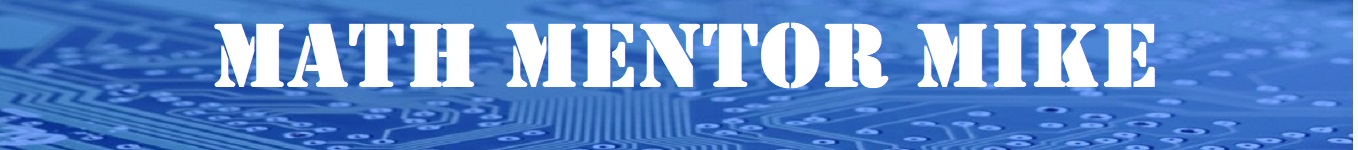
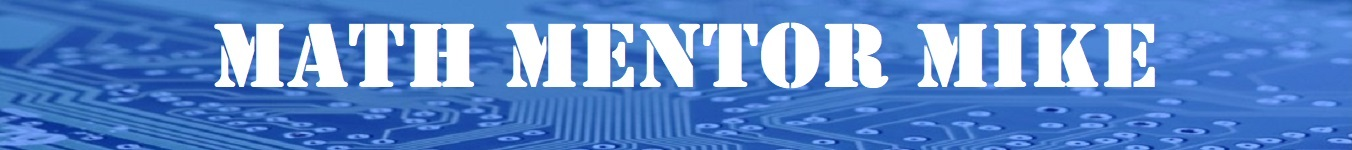
header image trim and typo

diff --git a/mathmentormike.html b/mathmentormike.html
@@ -21,8 +21,8 @@
 </head>
 
 <body >
-	<hr><hr>
-		<img src="Pictures/headermathmentor.jpg" width="100%"
+	
+	<img src="Pictures/headermathmentor.jpg" width="100%"
 		style="display: block;
 		margin-left: auto;
 		margin-right: auto;"> 
@@ -38,7 +38,7 @@
 	<br>
 	<h2>Tutoring services available for children, adults and everyone in between</h2>
 	<br>
-	<h3>Service available on location, at your home, school or Library, or at my home or my school (Concordia)</h3>
+	<h3>Service available on location, at your home, school, library, or at my home</h3>
 	<br>
 	<h3>Please see <a href="contact.html">contact</a> information on homepage to book an appoinment(s)</h3>
 	